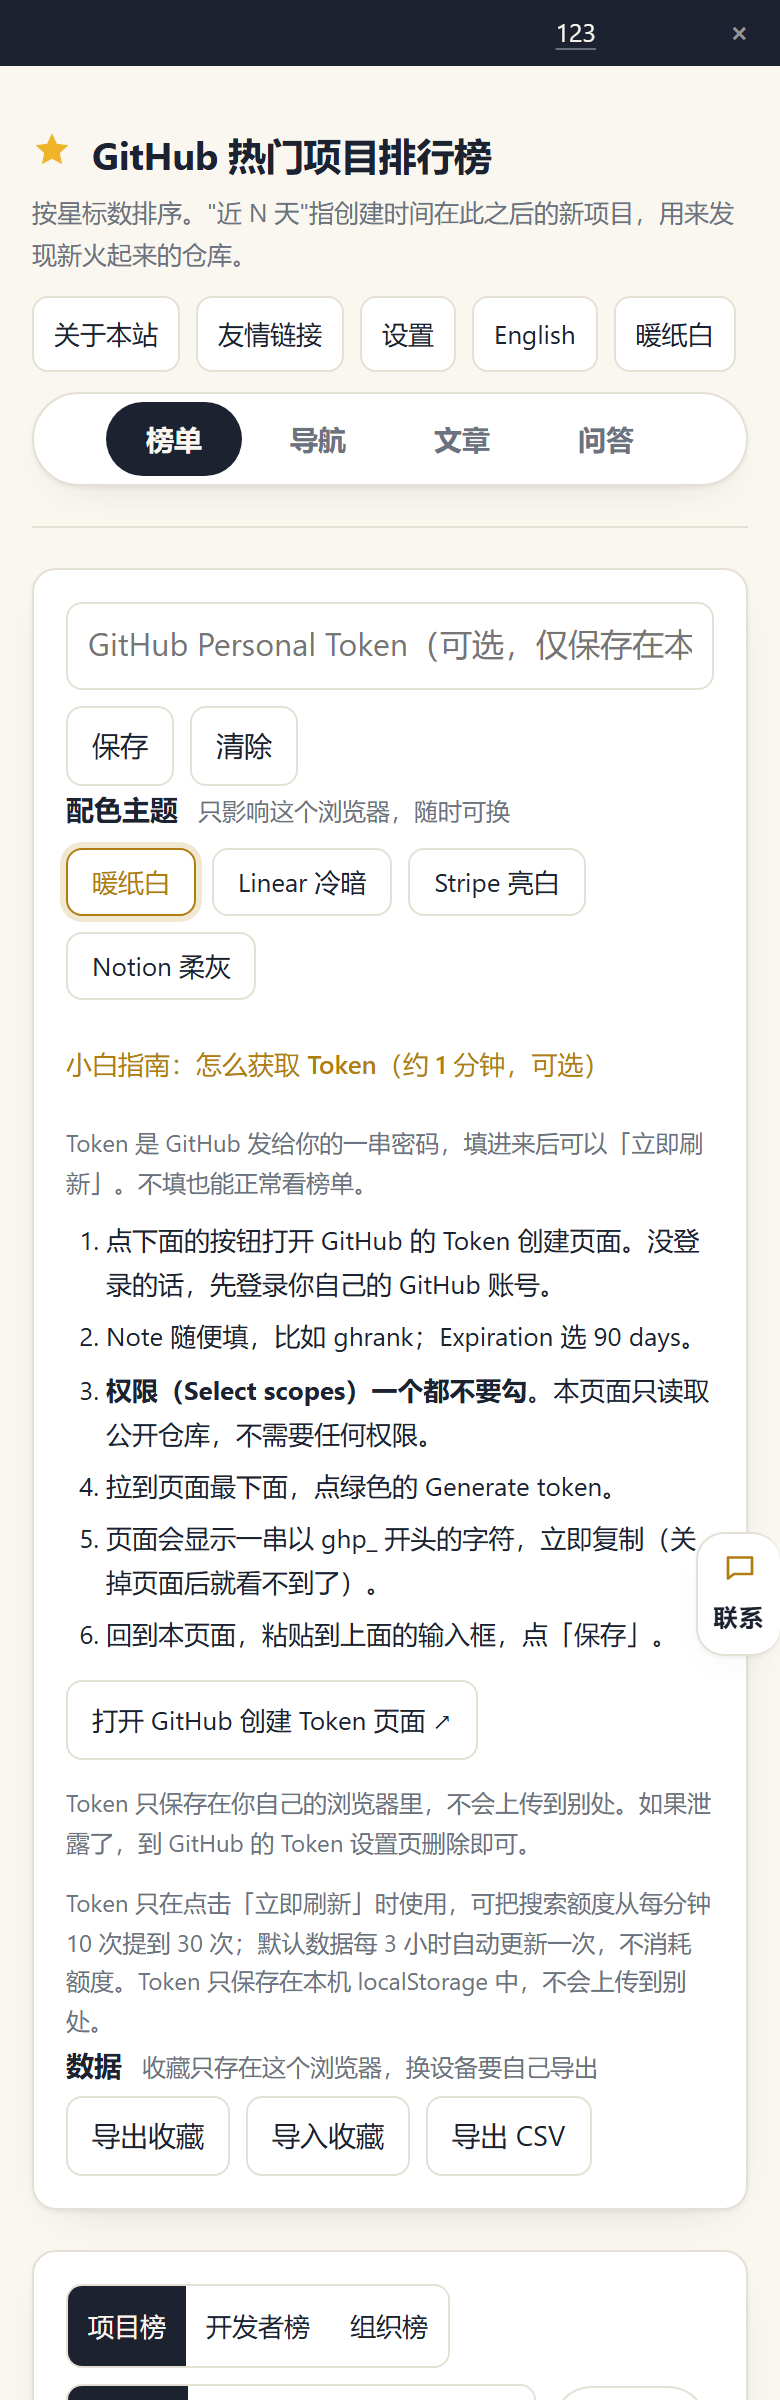
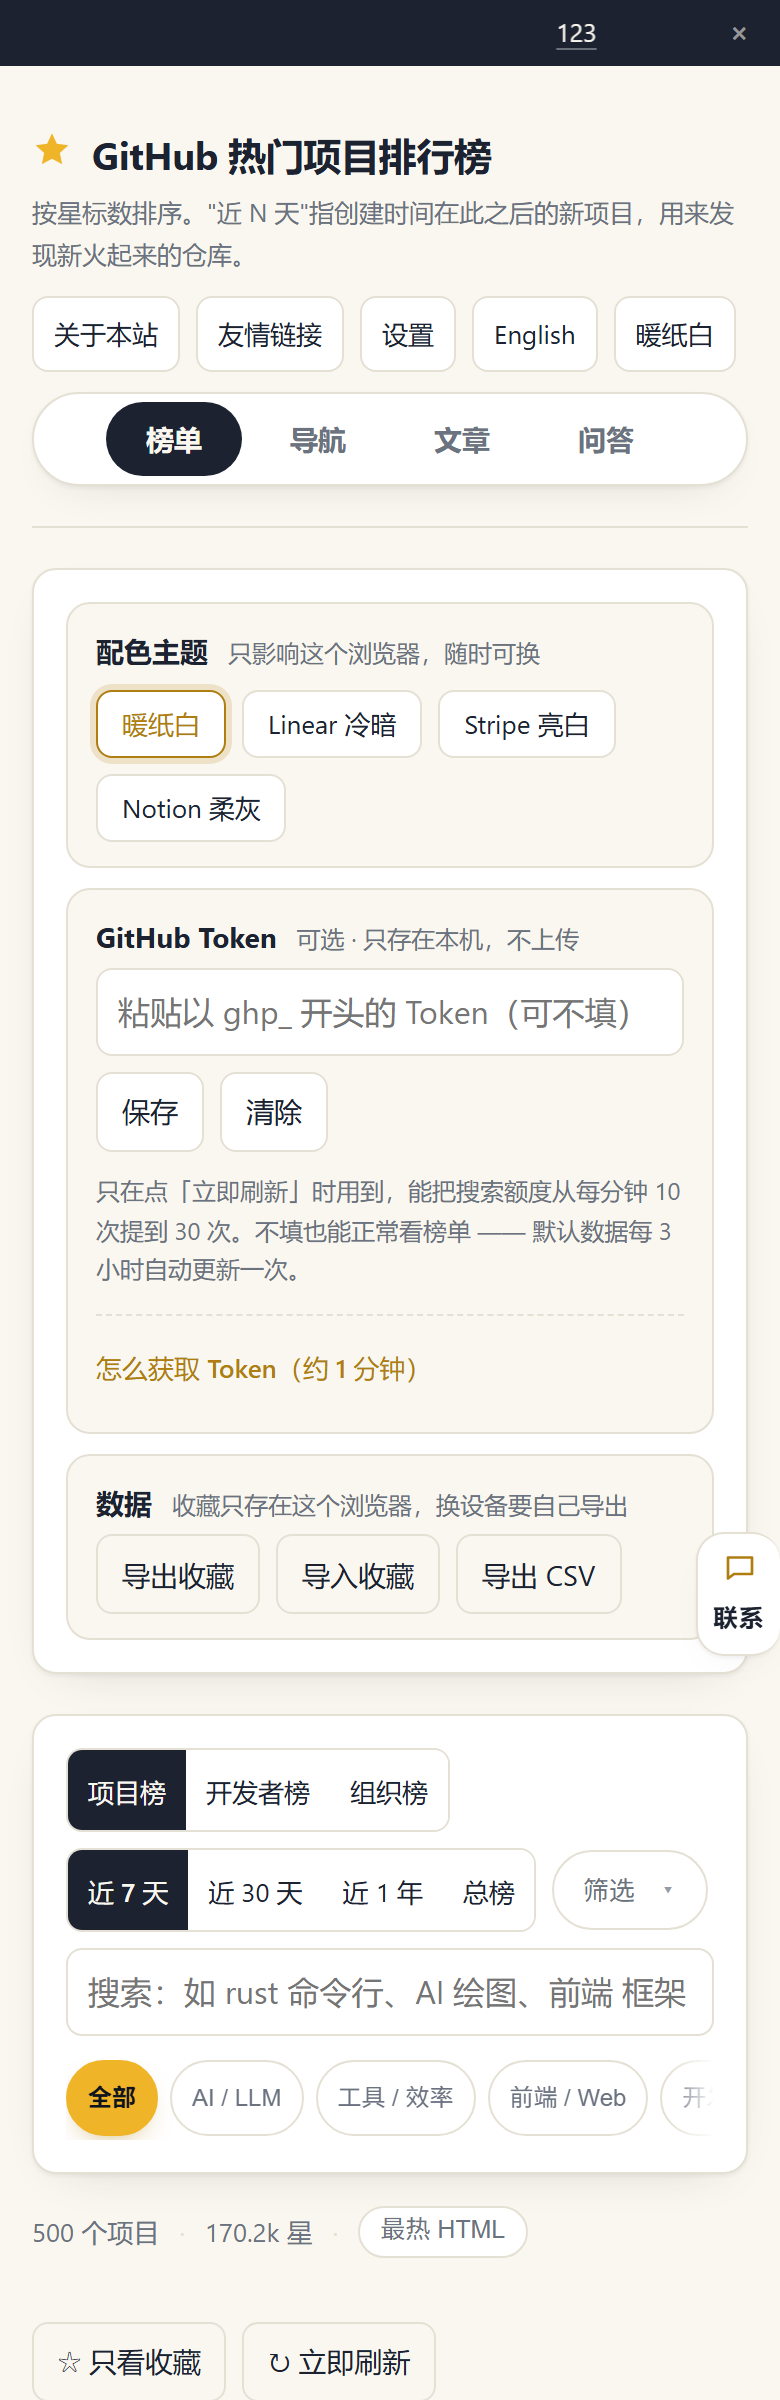
feat: 设置面板重排（主题在前、Token 说明合并去重、教程默认收起、卡片补边界、占位符改短）; 新增 check-settings-order 门禁; v168

Changed region(s): [[0.0308, 0.25, 0.9231, 1.0], [0.8615, 0.625, 0.8923, 0.6562]]

diff --git a/index.html b/index.html
@@ -612,6 +612,9 @@ html[data-theme="ink"] meta,html[data-theme="ink"]{color-scheme:dark}
     .card-head{display:flex;gap:10px;align-items:baseline;flex-wrap:wrap;margin-bottom:4px}
     .card-head b{font-size:14px}
     .card-head .msg{font-size:12px;color:var(--muted)}
+    #settings>.card{margin-top:10px;padding:12px 14px;border:1px solid var(--border);border-radius:12px;background:var(--bg)}
+    #settings>.card:first-of-type{margin-top:0}
+    #settings .guide{border-top:1px dashed var(--border);padding-top:6px}
 @media (prefers-reduced-motion: reduce){
   *,*::before,*::after{animation-duration:.001ms!important;animation-iteration-count:1!important;transition-duration:.001ms!important;scroll-behavior:auto!important}
 }
@@ -698,12 +701,7 @@ html[data-theme="ink"] meta,html[data-theme="ink"]{color-scheme:dark}
   </script>
 
   <section class="panel" id="settings" hidden>
-    <div class="controls">
-      <input type="password" id="token" class="grow" placeholder="GitHub Personal Token（可选，仅保存在本浏览器）" autocomplete="off">
-      <button class="btn" id="btnSaveToken">保存</button>
-      <button class="btn" id="btnClearToken">清除</button>
-    </div>
-        <div class="card" id="themeRow">
+    <div class="card" id="themeRow">
       <div class="card-head"><b>配色主题</b><span class="msg">只影响这个浏览器，随时可换</span></div>
       <div class="theme-picks">
         <button class="btn theme-chip" type="button" data-theme-pick="paper">暖纸白</button>
@@ -712,21 +710,28 @@ html[data-theme="ink"] meta,html[data-theme="ink"]{color-scheme:dark}
         <button class="btn theme-chip" type="button" data-theme-pick="notion">Notion 柔灰</button>
       </div>
     </div>
-    <details class="guide" open>
- <summary>小白指南：怎么获取 Token（约 1 分钟，可选）</summary>
- <p class="note">Token 是 GitHub 发给你的一串密码，填进来后可以「立即刷新」。不填也能正常看榜单。</p>
- <ol>
- <li>点下面的按钮打开 GitHub 的 Token 创建页面。没登录的话，先登录你自己的 GitHub 账号。</li>
- <li>Note 随便填，比如 ghrank；Expiration 选 90 days。</li>
- <li><b>权限（Select scopes）一个都不要勾</b>。本页面只读取公开仓库，不需要任何权限。</li>
- <li>拉到页面最下面，点绿色的 Generate token。</li>
- <li>页面会显示一串以 ghp_ 开头的字符，立即复制（关掉页面后就看不到了）。</li>
- <li>回到本页面，粘贴到上面的输入框，点「保存」。</li>
- </ol>
- <a class="btn guide-link" href="https://github.com/settings/tokens/new?description=ghrank&scopes=" target="_blank" rel="noopener noreferrer">打开 GitHub 创建 Token 页面 ↗</a>
- <p class="guide-tip">Token 只保存在你自己的浏览器里，不会上传到别处。如果泄露了，到 GitHub 的 Token 设置页删除即可。</p>
- </details>
- <p class="note">Token 只在点击「立即刷新」时使用，可把搜索额度从每分钟 10 次提到 30 次；默认数据每 3 小时自动更新一次，不消耗额度。Token 只保存在本机 localStorage 中，不会上传到别处。</p>
+    <div class="card" id="tokenCard">
+      <div class="card-head"><b>GitHub Token</b><span class="msg">可选 · 只存在本机，不上传</span></div>
+      <div class="controls">
+        <input type="password" id="token" class="grow" placeholder="粘贴以 ghp_ 开头的 Token（可不填）" autocomplete="off">
+        <button class="btn" id="btnSaveToken">保存</button>
+        <button class="btn" id="btnClearToken">清除</button>
+      </div>
+      <p class="note">只在点「立即刷新」时用到，能把搜索额度从每分钟 10 次提到 30 次。不填也能正常看榜单 —— 默认数据每 3 小时自动更新一次。</p>
+      <details class="guide">
+        <summary>怎么获取 Token（约 1 分钟）</summary>
+        <ol>
+          <li>点下面的按钮打开 GitHub 的 Token 创建页面。没登录的话，先登录你自己的 GitHub 账号。</li>
+          <li>Note 随便填，比如 ghrank；Expiration 选 90 days。</li>
+          <li><b>权限（Select scopes）一个都不要勾</b>。本页面只读取公开仓库，不需要任何权限。</li>
+          <li>拉到页面最下面，点绿色的 Generate token。</li>
+          <li>页面会显示一串以 ghp_ 开头的字符，立即复制（关掉页面后就看不到了）。</li>
+          <li>回到本页面，粘贴到上面的输入框，点「保存」。</li>
+        </ol>
+        <a class="btn guide-link" href="https://github.com/settings/tokens/new?description=ghrank&scopes=" target="_blank" rel="noopener noreferrer">打开 GitHub 创建 Token 页面 ↗</a>
+        <p class="guide-tip">泄露了就回 GitHub 设置页把它删掉；本页点「清除」也会立刻失效。</p>
+      </details>
+    </div>
 
   <div class="card">
     <div class="card-head"><b>数据</b><span class="msg">收藏只存在这个浏览器，换设备要自己导出</span></div>

diff --git a/js/bundle.js b/js/bundle.js
@@ -970,8 +970,8 @@ function markCat() {
 // ---------- 设置：Token ----------
 function refreshTokenHint() {
   $('token').placeholder = getToken()
-    ? '已保存 Token（仅本机），输入新值可覆盖'
-    : 'GitHub Personal Token（可选，仅保存在本浏览器）';
+    ? '已保存（点「清除」可删），输入新值可覆盖'
+    : '粘贴以 ghp_ 开头的 Token（可不填）';
   updateSourceNote();
 }
 $('btnSettings').onclick = () => { $('settings').hidden = !$('settings').hidden; refreshTokenHint(); };

diff --git a/sw.js b/sw.js
@@ -1,5 +1,5 @@
 /* Service Worker：缓存页面外壳（HTML/JS/图标），让离线也能打开；GitHub API 不缓存，由页面自己的 localStorage 管理 */
-const CACHE = 'ghrank-shell-v167';
+const CACHE = 'ghrank-shell-v168';
 const SHELL = ['./', 'index.html', 'js/bundle.js', 'js/md.js', 'manifest.json', 'icon.svg'];
 // 只预缓存 meta（约 2KB）。榜单数据按 range 分文件、由页面按需加载，不再在安装时白下几�?KB
 const DATA = 'data/repos-meta.js';

diff --git a/worker.js b/worker.js
@@ -1630,7 +1630,7 @@ async function injectFaqLd(env, html) {
 
 // 静态资源版本：HTML 里的 /js/*.js 都会被加上 ?v=<这里>，于是能给浏览器一年 immutable；
 // 改了前端就把它 +1（不然用户浏览器会抱着一周的旧 bundle，界面上去点了没反应）
-const ASSET_V = 'v167';
+const ASSET_V = 'v168';
 
 function emptyNav() {
   return { updatedAt: '', groups: [] };
